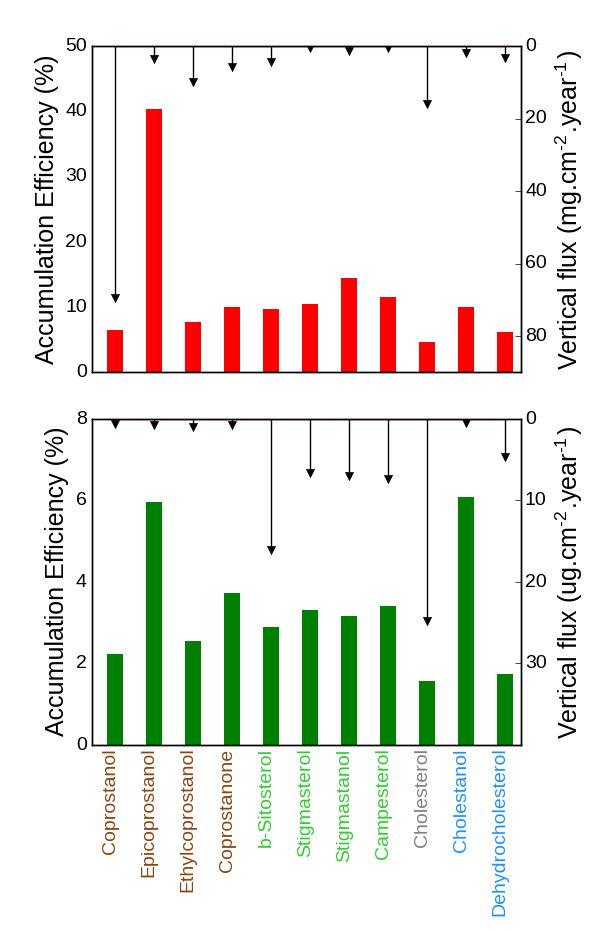
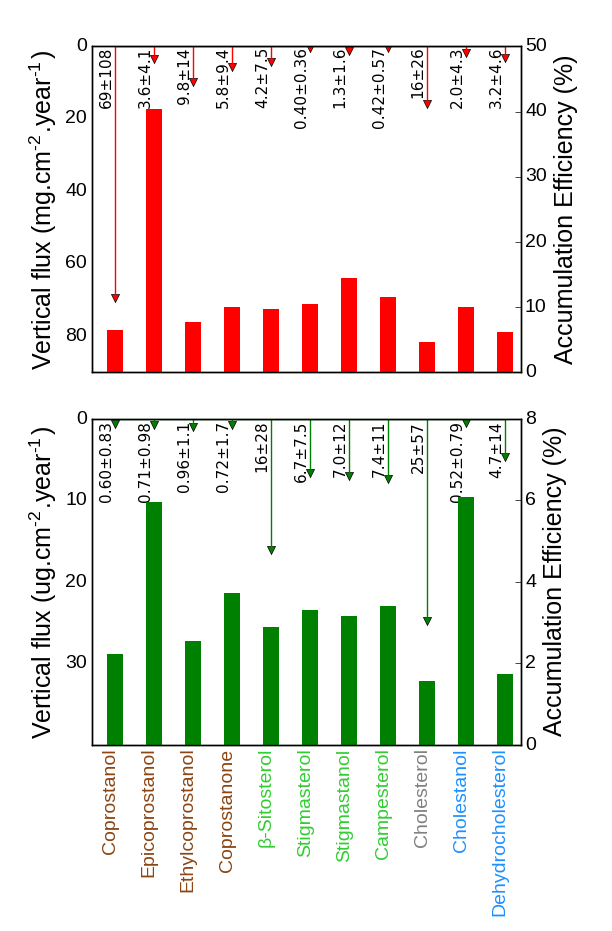
corregi el stem plot

diff --git a/AccEffa.py b/AccEffa.py
@@ -17,27 +17,29 @@ fig=plt.figure(facecolor='white', figsize=(6,12))
 histo = fig.add_axes([0.15, 0.6, 0.7, 0.35])
 cols = np.arange(11) # ctdad de barras (= esteroles)
 wid = 0.4
-hBA = histo.bar(cols+wid, arnum[2,2:13], wid, color = 'r', linewidth=0)
+EBA = histo.stem(cols+0.6, arnum[4,2:13], linefmt='r-',mec='r', lw=0, markerfmt='rv', basefmt='r-',edgecolor=None)
 csfont = {'fontname':'Liberation Sans'}
-histo.set_ylabel('Accumulation Efficiency (%)', size=18,**csfont)
-plt.ylim(0,50)
+histo.set_ylabel('Vertical flux (mg.$\mathregular{cm^{-2}.year^{-1}}$)', size=18,**csfont)
+plt.ylim(0,90)
 plt.xlim(0,11)
-plt.yticks(np.arange(0,51,10), size = 14, **csfont)
+plt.yticks(np.arange(0,81,20), size = 14, **csfont)
 histo.tick_params(length=0, which='both')
 histo.set_xticks(cols+0.5)
 histo.set_xticklabels(headers[2:13], rotation = 90, size=14,**csfont)
 plt.setp(histo.get_xticklabels(),visible=False)
 
-# creo flux plot
-EBA = histo.twinx()
-#EBA.bar(cols, arnum[4,2:13], wid, color = 'b')
-EBA.stem(cols+0.6, arnum[4,2:13], linefmt='k-', markerfmt='kv', basefmt='r-')
-EBA.set_ylabel('Vertical flux (mg.$\mathregular{cm^{-2}.year^{-1}}$)', size=18,**csfont)
-plt.ylim(0,90)
-plt.xlim(0,11)
-plt.yticks(np.arange(0,81,20), size = 14, **csfont)
+for i,j,k in zip(cols,arnum[8,2:13],arnum[4,2:13]):
+	histo.annotate((j),xy=(i+0.22,4), size =11, rotation=90)
 
 plt.gca().invert_yaxis()
+
+# creo flux plot
+hBA = histo.twinx()
+hBA.bar(cols+wid, arnum[2,2:13], wid, color = 'r', linewidth=0)
+hBA.set_ylabel('Accumulation Efficiency (%)', size=18,**csfont)
+plt.ylim(0,50)
+plt.xlim(0,11)
+plt.yticks(np.arange(0,51,10), size = 14, **csfont)
 
 # N
 
@@ -45,12 +47,12 @@ plt.gca().invert_yaxis()
 histo2 = fig.add_axes([0.15, 0.2, 0.7, 0.35])
 cols = np.arange(11) # ctdad de barras (= esteroles)
 wid = 0.4
-hBA = histo2.bar(cols+wid, arnum[3,2:13], wid, color = 'g', linewidth=0)
+EN = histo2.stem(cols+0.6, arnum[6,2:13], linefmt='g-', markerfmt='gv', basefmt='g-')
 csfont = {'fontname':'Liberation Sans'}
-histo2.set_ylabel('Accumulation Efficiency (%)', size=18,**csfont)
-plt.ylim(0,8)
+histo2.set_ylabel('Vertical flux (ug.$\mathregular{cm^{-2}.year^{-1}}$)', size=18,**csfont)
 plt.xlim(0,11)
-plt.yticks(np.arange(0,8.1,2), size = 14, **csfont)
+plt.ylim(0,40)
+plt.yticks(np.arange(0,31,10), size = 14, **csfont)
 histo2.tick_params(length=0, which='both')
 histo2.set_xticks(cols+0.5)
 histo2.set_xticklabels(headers[2:13], rotation = 90, size=14,**csfont)
@@ -60,17 +62,23 @@ labelcol = ['saddlebrown','saddlebrown','saddlebrown','saddlebrown','limegreen',
 fontdict = dict(color='red',weight='heavy',**csfont)
 fontdictN2 = dict(color='g',weight='heavy',**csfont)
 
-
-# creo flux plot N
-EBA = histo2.twinx()
-#EBA.bar(cols, arnum[4,2:13], wid, color = 'b')
-EBA.stem(cols+0.6, arnum[6,2:13], linefmt='k-', markerfmt='kv', basefmt='r-')
-EBA.set_ylabel('Vertical flux (ug.$\mathregular{cm^{-2}.year^{-1}}$)', size=18,**csfont)
-plt.ylim(0,40)
-plt.xlim(0,11)
-plt.yticks(np.arange(0,31,10), size = 14, **csfont)
+for i,j,k in zip(cols,arnum[9,2:13],arnum[6,2:13]):
+	histo2.annotate((j),xy=(i+0.22,2), size =11, rotation=90)
 
 plt.gca().invert_yaxis()
+
+# creo flux plot N
+hN = histo2.twinx()
+hN.bar(cols+wid, arnum[3,2:13], wid, color = 'g', linewidth=0)
+hN.set_ylabel('Accumulation Efficiency (%)', size=18,**csfont)
+plt.ylim(0,8)
+plt.xlim(0,11)
+plt.yticks(np.arange(0,8.1,2), size = 14, **csfont)
+
+
+
+
+
 
 plt.show()
 
